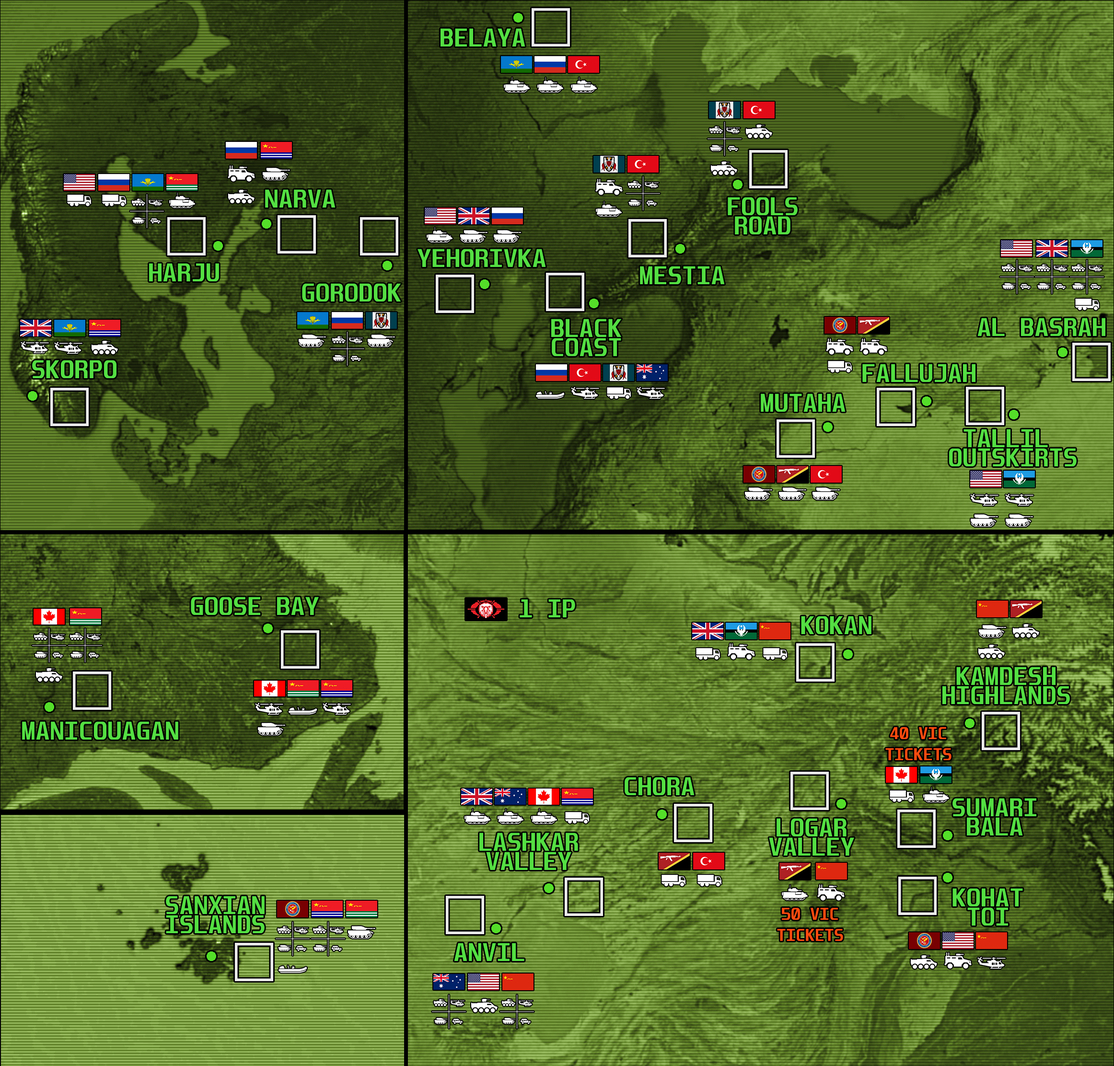
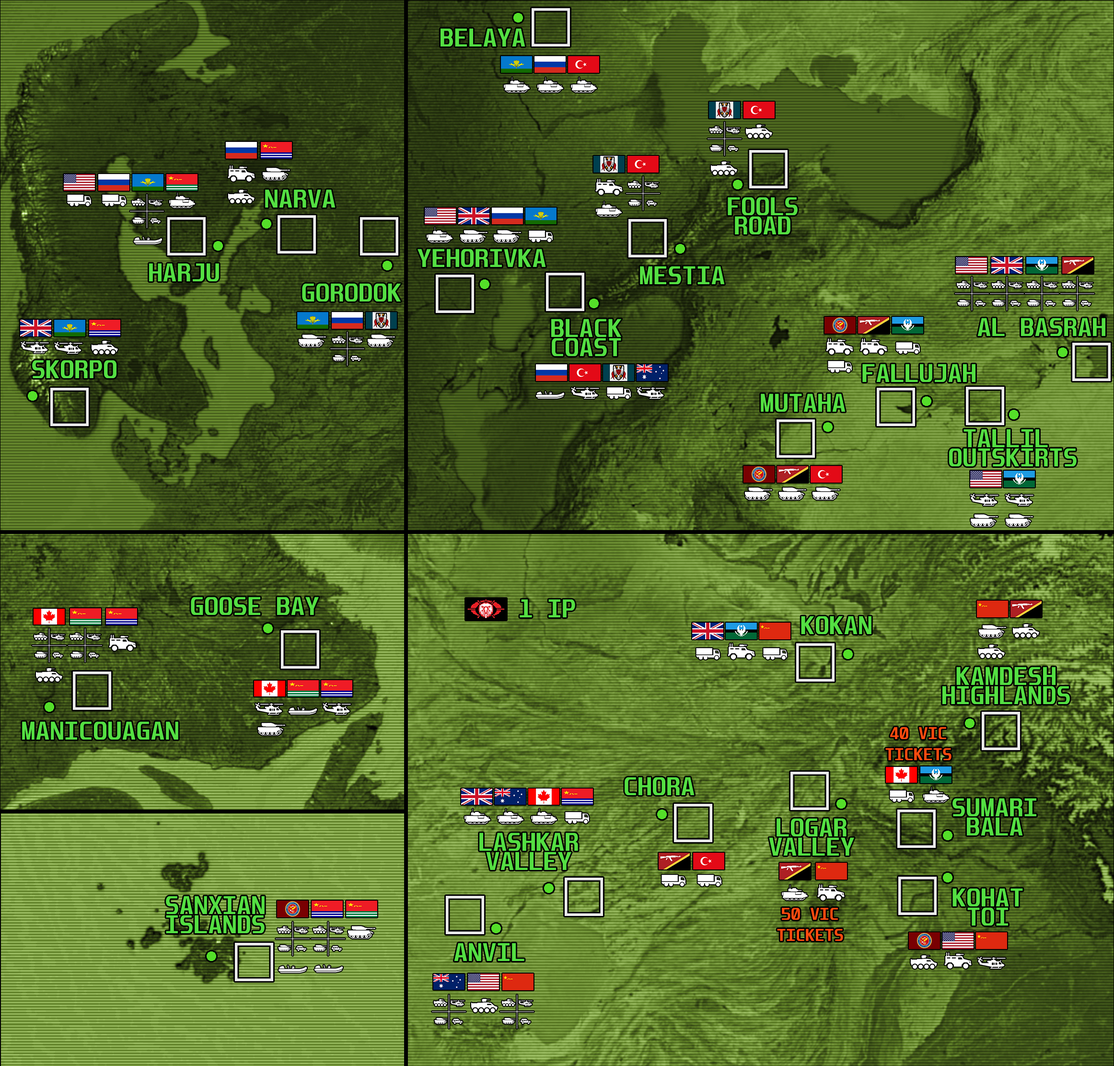
Add files via upload

diff --git a/index.html b/index.html
@@ -11,7 +11,7 @@
             font-family: 'Unispace', monospace;
             margin: 0; /* Removes default margin */
             padding: 20px; /* Adds some padding for better spacing */
-		max-width: 1550px;
+			max-width: 1550px;
             display: flex;
             flex-direction: column;
             align-items: center;
@@ -26,8 +26,8 @@
             padding: 10px; /* Padding for better appearance */
             margin: 0px auto; /* Center the box on the page */
             font-size: 32px; /* Font size */
-		font-family: 'Unispace', monospace;
-		justify-content: center;
+			font-family: 'Unispace', monospace;
+			justify-content: center;
         }
 		.topbanner {
             width: 95%; /* Custom width */
@@ -42,14 +42,38 @@
             border-radius: 0px; /* Rounded corners */
 			justify-content: center;
         }
-		.map {
+		#map img {
             border: 5px solid #000; /* Border around the image */
 			border-color: rgb(85,225,40);
-            padding: 0px; /* Space between the border and the image */
             margin-top: 20px; /* Space above the image */
-			justify-content: center;
+            padding: 10px; /* Padding for better appearance */
         }
-		.forces {
+		#map img.active {
+			display: block;
+		}
+		.mapimg {
+		    border: 5px solid #000; /* Border around the image */
+			border-color: rgb(85,225,40);
+            margin-top: 20px; /* Space above the image */
+            padding: 0px; /* Padding for better appearance */
+			width: 95%;
+		}
+		#campaign {
+            width: 95%; /* Custom width */
+            text-align: center; /* Center text alignment */
+            color: rgb(85, 225, 40); /* RGB color for text */
+			background-color: rgb(0,0,0);
+            border: 5px solid #ccc; /* Optional border */
+			border-color: rgb(85, 225, 40); /* RGB color for text */
+            padding: 10px; /* Padding for better appearance */
+            margin: 20px auto; /* Center the box on the page */
+            font-size: 32px; /* Font size */
+			font-family: 'Unispace', monospace;
+            border-radius: 0px; /* Rounded corners */
+			justify-content: center;
+			cursor: pointer;
+        }
+		#forces {
             border: 2.5px solid #000; /* Border around the image */
 			border-color: rgb(85,225,40);
             padding: 0px; /* Space between the border and the image */
@@ -61,7 +85,7 @@
 			margin-bottom: 20px;
 			justify-content: center;
 		}
-        img {
+        .img {
             max-width: 100%; /* Responsive image */
             height: auto; /* Maintain aspect ratio */
 			}
@@ -100,18 +124,47 @@
     <div class="topbanner">
         1ST MARINE DIVISION : CONQUEST
     </div>
-	<div class="map">
-        <img src="map.png" alt="WORLD MAP">
-    </div>
-	<div class="forces">
-        <img src="apaches.png" alt="company">
-        <img src="mjolnir.png" alt="company">
-		<img src="phantom.png" alt="company">
-		<img src="ironwolves.png" alt="company">
-		<img src="jokers.png" alt="company">
-		<img src="misfits.png" alt="company">
-		<img src="highlanders.png" alt="company">
-		<img src="empty.png" alt="company">
+	<img id="map" class="mapimg" src="map.png" alt="map">
+	<button id="campaign">CLICK HERE TO SHOW EXAMPLE CAMPAIGN START</button>
+	<script>
+    let isImage1 = true;
+    const imageElement = document.getElementById('map');
+    const switchButton = document.getElementById('campaign');
+
+    switchButton.addEventListener('click', () => {
+        if (isImage1) {
+            imageElement.src = 'mapex.png';
+			document.getElementById('apaches').src = 'apachesex.png';
+            document.getElementById('mjolnir').src = 'mjolnirex.png';
+            document.getElementById('phantom').src = 'phantomex.png';
+            document.getElementById('ironwolves').src = 'ironwolvesex.png';
+            document.getElementById('jokers').src = 'jokersex.png';
+            document.getElementById('misfits').src = 'misfitsex.png';
+            document.getElementById('highlanders').src = 'highlandersex.png';
+            document.getElementById('empty').src = 'empty.png';
+        } else {
+            imageElement.src = 'map.png';
+			document.getElementById('apaches').src = 'apaches.png';
+            document.getElementById('mjolnir').src = 'mjolnir.png';
+            document.getElementById('phantom').src = 'phantom.png';
+            document.getElementById('ironwolves').src = 'ironwolves.png';
+            document.getElementById('jokers').src = 'jokers.png';
+            document.getElementById('misfits').src = 'misfits.png';
+            document.getElementById('highlanders').src = 'highlanders.png';
+            document.getElementById('empty').src = 'empty.png';
+        }
+        isImage1 = !isImage1;
+    });
+	</script>
+	<div id="forces">
+        <img src="apaches.png" class="img" id="apaches" alt="company">
+        <img src="mjolnir.png" class="img" id="mjolnir" alt="company">
+		<img src="phantom.png" class="img" id="phantom" alt="company">
+		<img src="ironwolves.png" class="img" id="ironwolves" alt="company">
+		<img src="jokers.png" class="img" id="jokers" alt="company">
+		<img src="misfits.png" class="img" id="misfits" alt="company">
+		<img src="highlanders.png" class="img" id="highlanders" alt="company">
+		<img src="empty.png" class="img" id="empty" alt="company">
 	</div>
 	<div class="title" onclick="toggleContent('content1')"> -SETUP-</div>
     <div id="content1" class="content">
